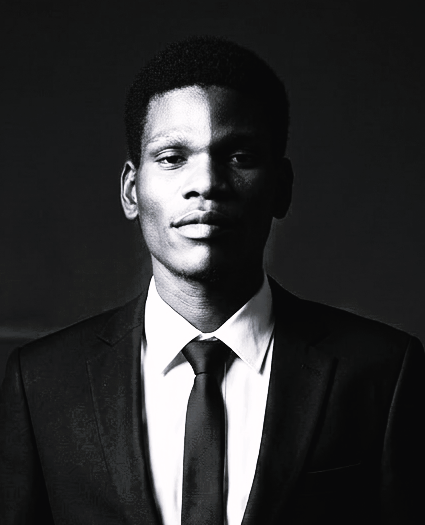
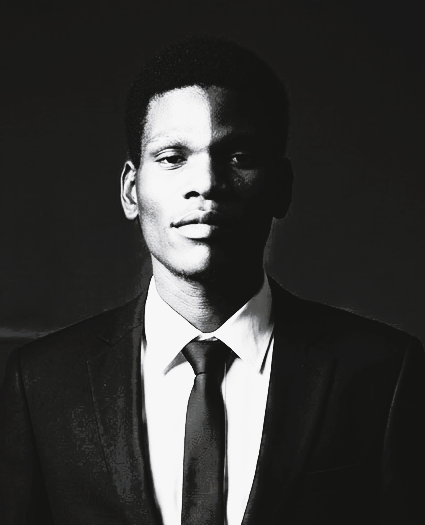
lil fix

diff --git a/app/page.tsx b/app/page.tsx
@@ -25,7 +25,10 @@ const montserrat = Montserrat({ subsets: ["latin"] });
 
 export default function Portfolio() {
   return (
-    <div className={`${montserrat.className} bg-zinc-50 dark:bg-black min-h-screen text-zinc-600 dark:text-zinc-400 scroll-smooth transition-colors duration-300`}>
+    <div style={{
+        backgroundImage: 'url("/assets/skulls.png")',
+      }}
+     className={`${montserrat.className} bg-zinc-50 dark:bg-black min-h-screen text-zinc-600 dark:text-zinc-400 scroll-smooth transition-colors duration-300`}>
       
       {/* Added pb-24 for mobile to ensure content isn't hidden behind the bottom navbar */}
       <main className="md:ml-30 p-12 md:p-12 pb-24 md:pb-12 md:pt-6 max-w-6xl mx-auto">
@@ -35,7 +38,7 @@ export default function Portfolio() {
           <h1 className="text-4xl md:text-6xl font-black mb-4 text-zinc-900 dark:text-white transition-colors">
             <span className="block md:inline">AMG-TECH </span>SOLUTIONS
           </h1>
-          <p className="text-zinc-500 dark:text-zinc-400 mb-8 tracking-widest uppercase font-medium">A Software Developer.</p>
+          <p className="text-amber-500 mb-8 tracking-widest uppercase font-medium">A Software Developer.</p>
           <div className="relative w-full max-w-3xl mx-auto h-[50vh] md:h-175 drop-shadow-2xl dark:drop-shadow-none">
             <Image 
               src="/assets/image.png" 
@@ -298,7 +301,7 @@ get in touch with us
 </section>
 
         {/* Footer */}
-        <footer className="py-8 border-t border-zinc-200 dark:border-zinc-900 text-center text-zinc-400 text-sm">
+        <footer className="py-8 border-t border-zinc-200 dark:border-zinc-900 text-center text-zinc-800 text-sm">
           <p>AMG-TECH Solutions {new Date().getFullYear()} © All rights reserved.</p>
         </footer>
 

diff --git a/app/components/Sidebar.tsx b/app/components/Sidebar.tsx
@@ -15,22 +15,22 @@ export default function Sidebar() {
           />
         </div>
         
-        <a href="#home" className="group w-full p-6 bg-white dark:bg-[#111] hover:bg-zinc-50 dark:hover:bg-black text-zinc-500 dark:text-zinc-400 transition-all duration-300 flex flex-col items-center gap-2">
+        <a href="#home" className="group w-full p-6 bg-white dark:bg-[#111] hover:bg-zinc-50 dark:hover:bg-black text-black dark:text-zinc-400 transition-all duration-300 flex flex-col items-center gap-2">
           <Home size={32} className="group-hover:scale-125 group-hover:-translate-y-1 group-hover:text-amber-500 transition-all duration-300" />
           <p className="group-hover:text-amber-500 transition-colors duration-300 font-medium">HOME</p>
         </a>
         
-        <a href="#about" className="group w-full p-6 bg-white dark:bg-[#111] hover:bg-zinc-50 dark:hover:bg-black text-zinc-500 dark:text-zinc-400 transition-all duration-300 flex flex-col items-center gap-2">
+        <a href="#about" className="group w-full p-6 bg-white dark:bg-[#111] hover:bg-zinc-50 dark:hover:bg-black text-black dark:text-zinc-400 transition-all duration-300 flex flex-col items-center gap-2">
           <User size={32} className="group-hover:scale-125 group-hover:-translate-y-1 group-hover:text-amber-500 transition-all duration-300" />
           <p className="group-hover:text-amber-500 transition-colors duration-300 font-medium">ABOUT</p>
         </a>
         
-        <a href="#tools" className="group w-full p-6 bg-white dark:bg-[#111] hover:bg-zinc-50 dark:hover:bg-black text-zinc-500 dark:text-zinc-400 transition-all duration-300 flex flex-col items-center gap-2">
+        <a href="#tools" className="group w-full p-6 bg-white dark:bg-[#111] hover:bg-zinc-50 dark:hover:bg-black text-black dark:text-zinc-400 transition-all duration-300 flex flex-col items-center gap-2">
           <Wrench size={32} className="group-hover:scale-125 group-hover:-translate-y-1 group-hover:text-amber-500 transition-all duration-300" />
           <p className="group-hover:text-amber-500 transition-colors duration-300 font-medium">TOOLS</p>
         </a>
         
-        <a href="#contact" className="group w-full p-6 bg-white dark:bg-[#111] hover:bg-zinc-50 dark:hover:bg-black text-zinc-500 dark:text-zinc-400 transition-all duration-300 flex flex-col items-center gap-2">
+        <a href="#contact" className="group w-full p-6 bg-white dark:bg-[#111] hover:bg-zinc-50 dark:hover:bg-black text-black dark:text-zinc-400 transition-all duration-300 flex flex-col items-center gap-2">
           <Mail size={32} className="group-hover:scale-125 group-hover:-translate-y-1 group-hover:text-amber-500 transition-all duration-300" />
           <p className="group-hover:text-amber-500 transition-colors duration-300 font-medium">CONTACT</p>
         </a>